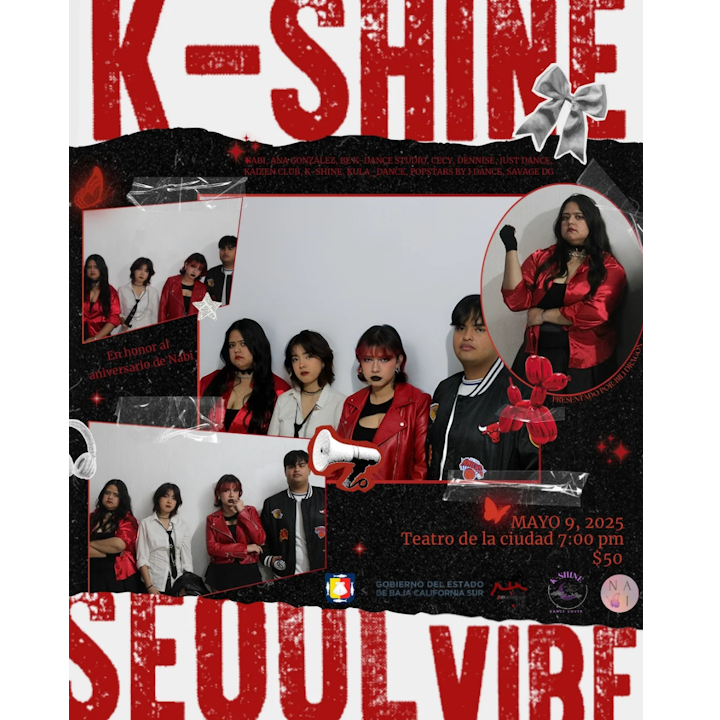
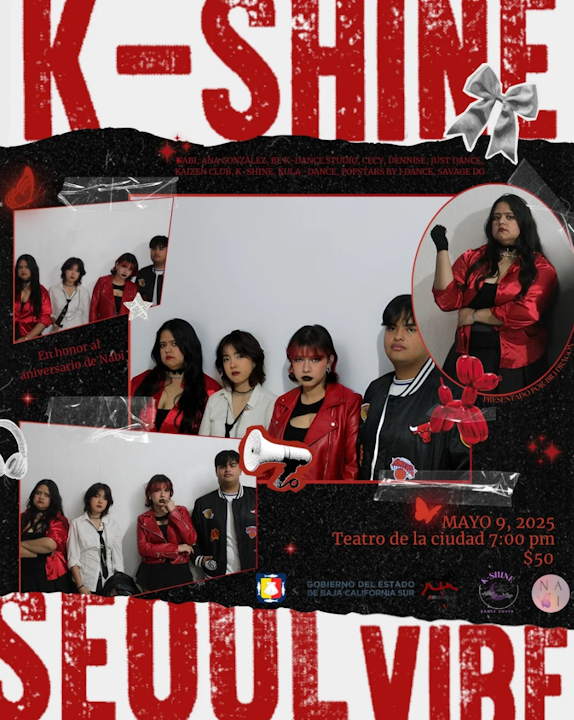
Add photos section

diff --git a/pages/index.vue b/pages/index.vue
@@ -250,8 +250,25 @@
             </div>
         </div>
         <USeparator id="photos" label="Fotos" class="font-mono font-thin scroll-mt-20"></USeparator>
-        <div id="networks" class="flex flex-col items-center  w-1/6">
-            <p class="font-mono">Redes sociales</p>
+        <div class="flex flex-col items-center max-w-2/3 overflow-hidden mb-12">
+            <div class="flex flex-col">
+                <img src="/images/general/group_05.png" class="bg-white w-full">
+                <div class="flex">
+                    <div class="flex flex-col">
+                        <img src="/images/general/poster_02.png" class="bg-white w-[380px]">
+                        <img src="/images/general/poster_03.png" class="bg-white w-[380px]">
+                    </div>
+                    <div>
+                        <img src="/images/general/poster_01.png" class="bg-white w-full h-full">
+                    </div>
+                </div>
+                <div class="flex flex-col">
+                    <img src="/images/general/group_06.png" class="bg-white w-full">
+                </div>
+            </div>
+        </div>
+        <div id="networks" class="flex flex-col items-center  w-1/6 fixed bottom-2">
+            <p class="font-mono text-nowrap">Redes sociales</p>
             <div class="flex justify-center gap-4 bg-purple-100 rounded-xl">
                 <a href="https://www.facebook.com/profile.php?id=100089308399149" target="_blank" rel="noopener noreferrer">
                     <UButton icon="ic:baseline-facebook" class="text-4xl bg-transparent text-purple-600 hover:bg-purple-300 transition-all duration-300"></UButton>

diff --git a/app.vue b/app.vue
@@ -24,12 +24,6 @@
         slot: 'components' as const,
         to: '#photos'
     },
-    {
-        label: 'Redes',
-        icon: 'material-symbols:nest-heat-link-gen-3',
-        slot: 'components' as const,
-        to: '#networks'
-    },
     ] satisfies NavigationMenuItem[]
 
     const colorMode = useColorMode()
